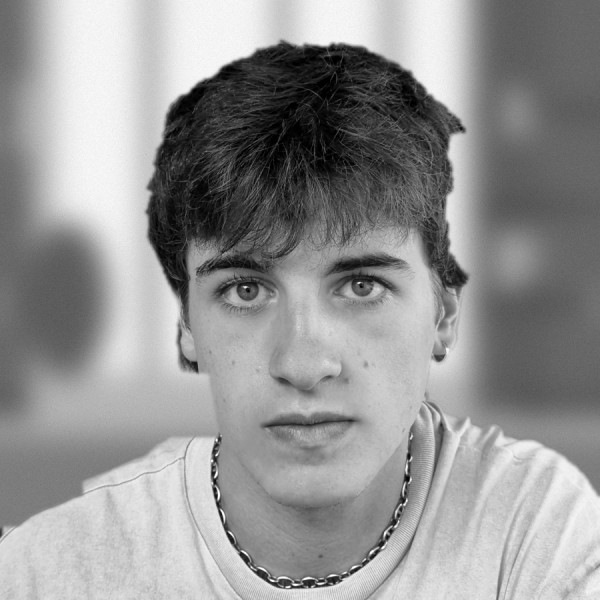
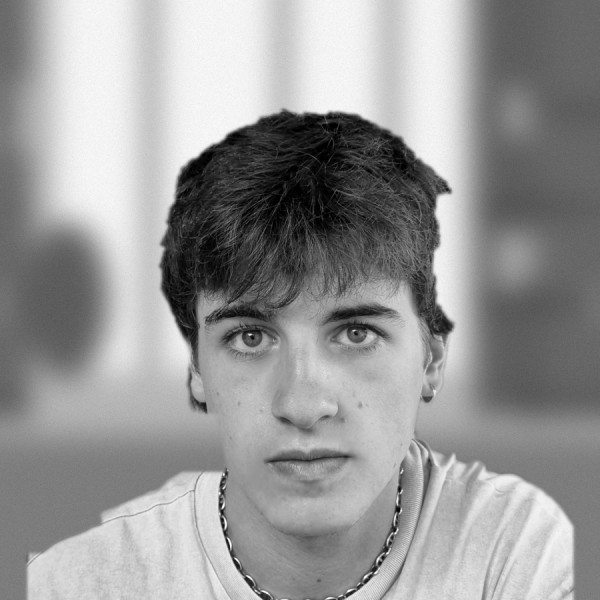
Reencuadra la foto de Asier con margen sobre la cabeza
Claude-Session: https://claude.ai/code/session_016g1Nu6Z9TFJoytB2N3cPjP

Changed region(s): [[0.0, 0.06, 1.0, 1.0], [0.24, 0.87, 0.27, 0.93], [0.72, 0.93, 0.75, 0.96]]

diff --git a/index.html b/index.html
@@ -525,7 +525,7 @@ chk()})();
         </div>
         <div class="suxtr-rise" style="display:flex;flex-direction:column;align-items:center;text-align:center;gap:6px">
           <div style="width:min(100%,210px);aspect-ratio:1/1;border-radius:50%;overflow:hidden;background:#d9d9d9;margin-bottom:14px;box-shadow:0 0 0 1px #d6d6d6;transition:transform .35s cubic-bezier(.16,.84,.28,1),box-shadow .35s ease" style-hover="transform:scale(1.04);box-shadow:0 0 0 3px #2f9be0">
-            <img src="assets/equipo-asier.jpg?v=1" alt="Retrato de Asier Merino" loading="lazy" style="display:block;width:100%;height:100%;object-fit:cover;filter:grayscale(1)" />
+            <img src="assets/equipo-asier.jpg?v=2" alt="Retrato de Asier Merino" loading="lazy" style="display:block;width:100%;height:100%;object-fit:cover;filter:grayscale(1)" />
           </div>
           <h3 style="margin:0;font-size:20px;font-weight:600;letter-spacing:-.015em">Asier Merino</h3>
           <span style="font-family:'Inter Tight',Helvetica,Arial,sans-serif;font-size:11.5px;letter-spacing:.12em;text-transform:uppercase;color:#737b85">Cofundador</span>
